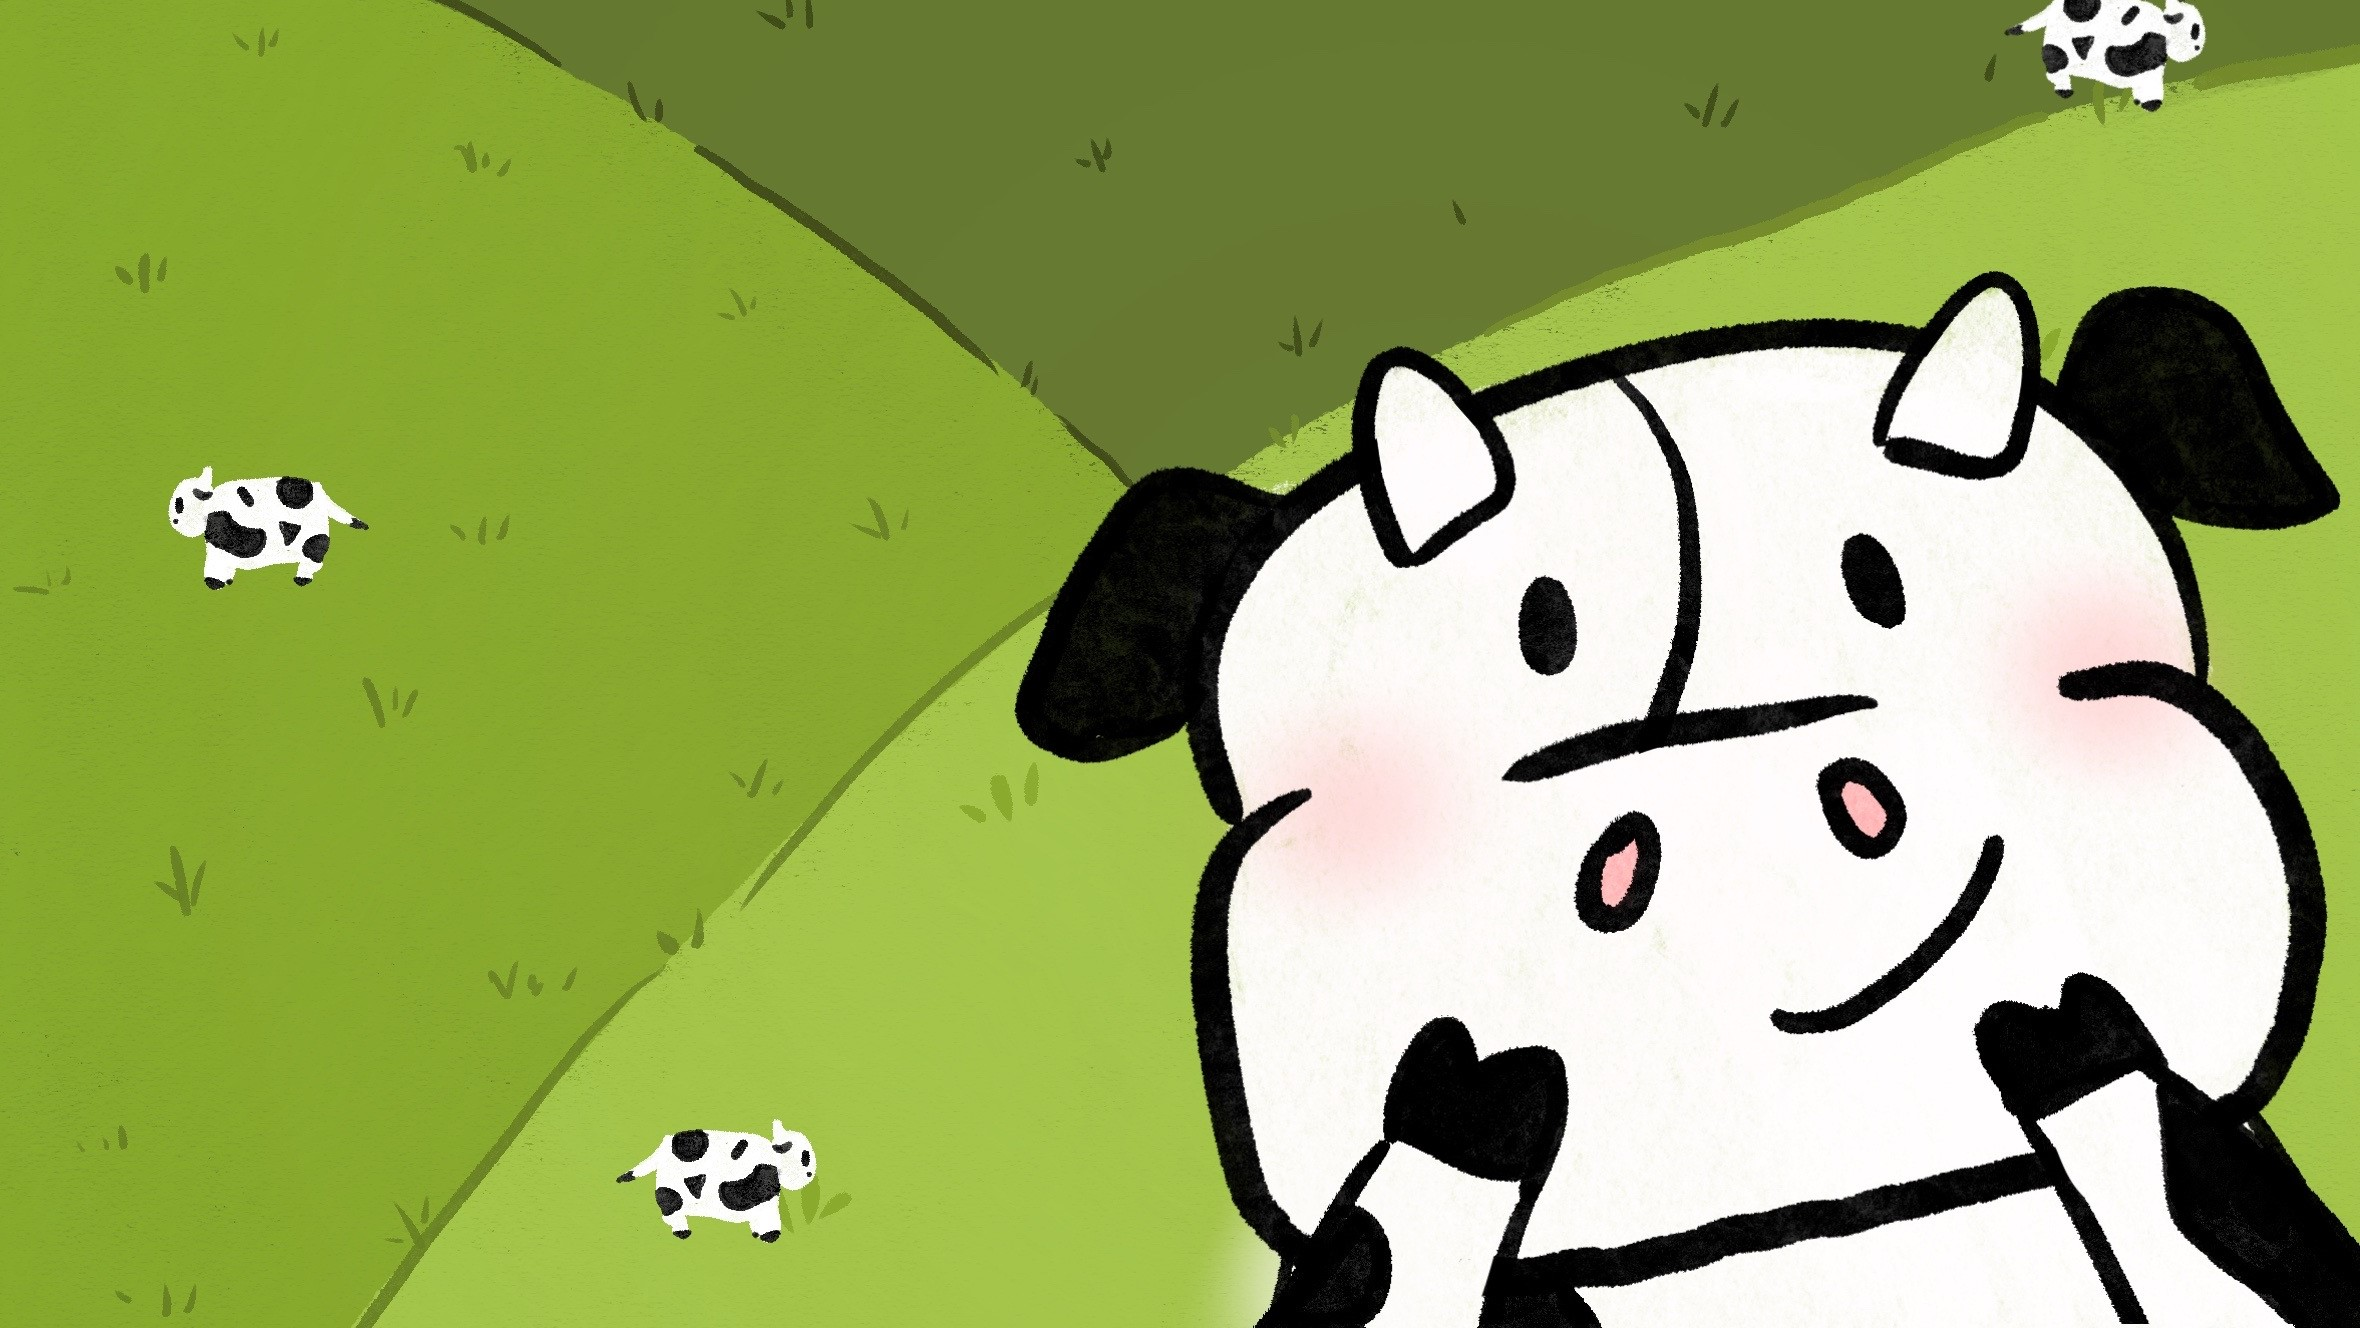
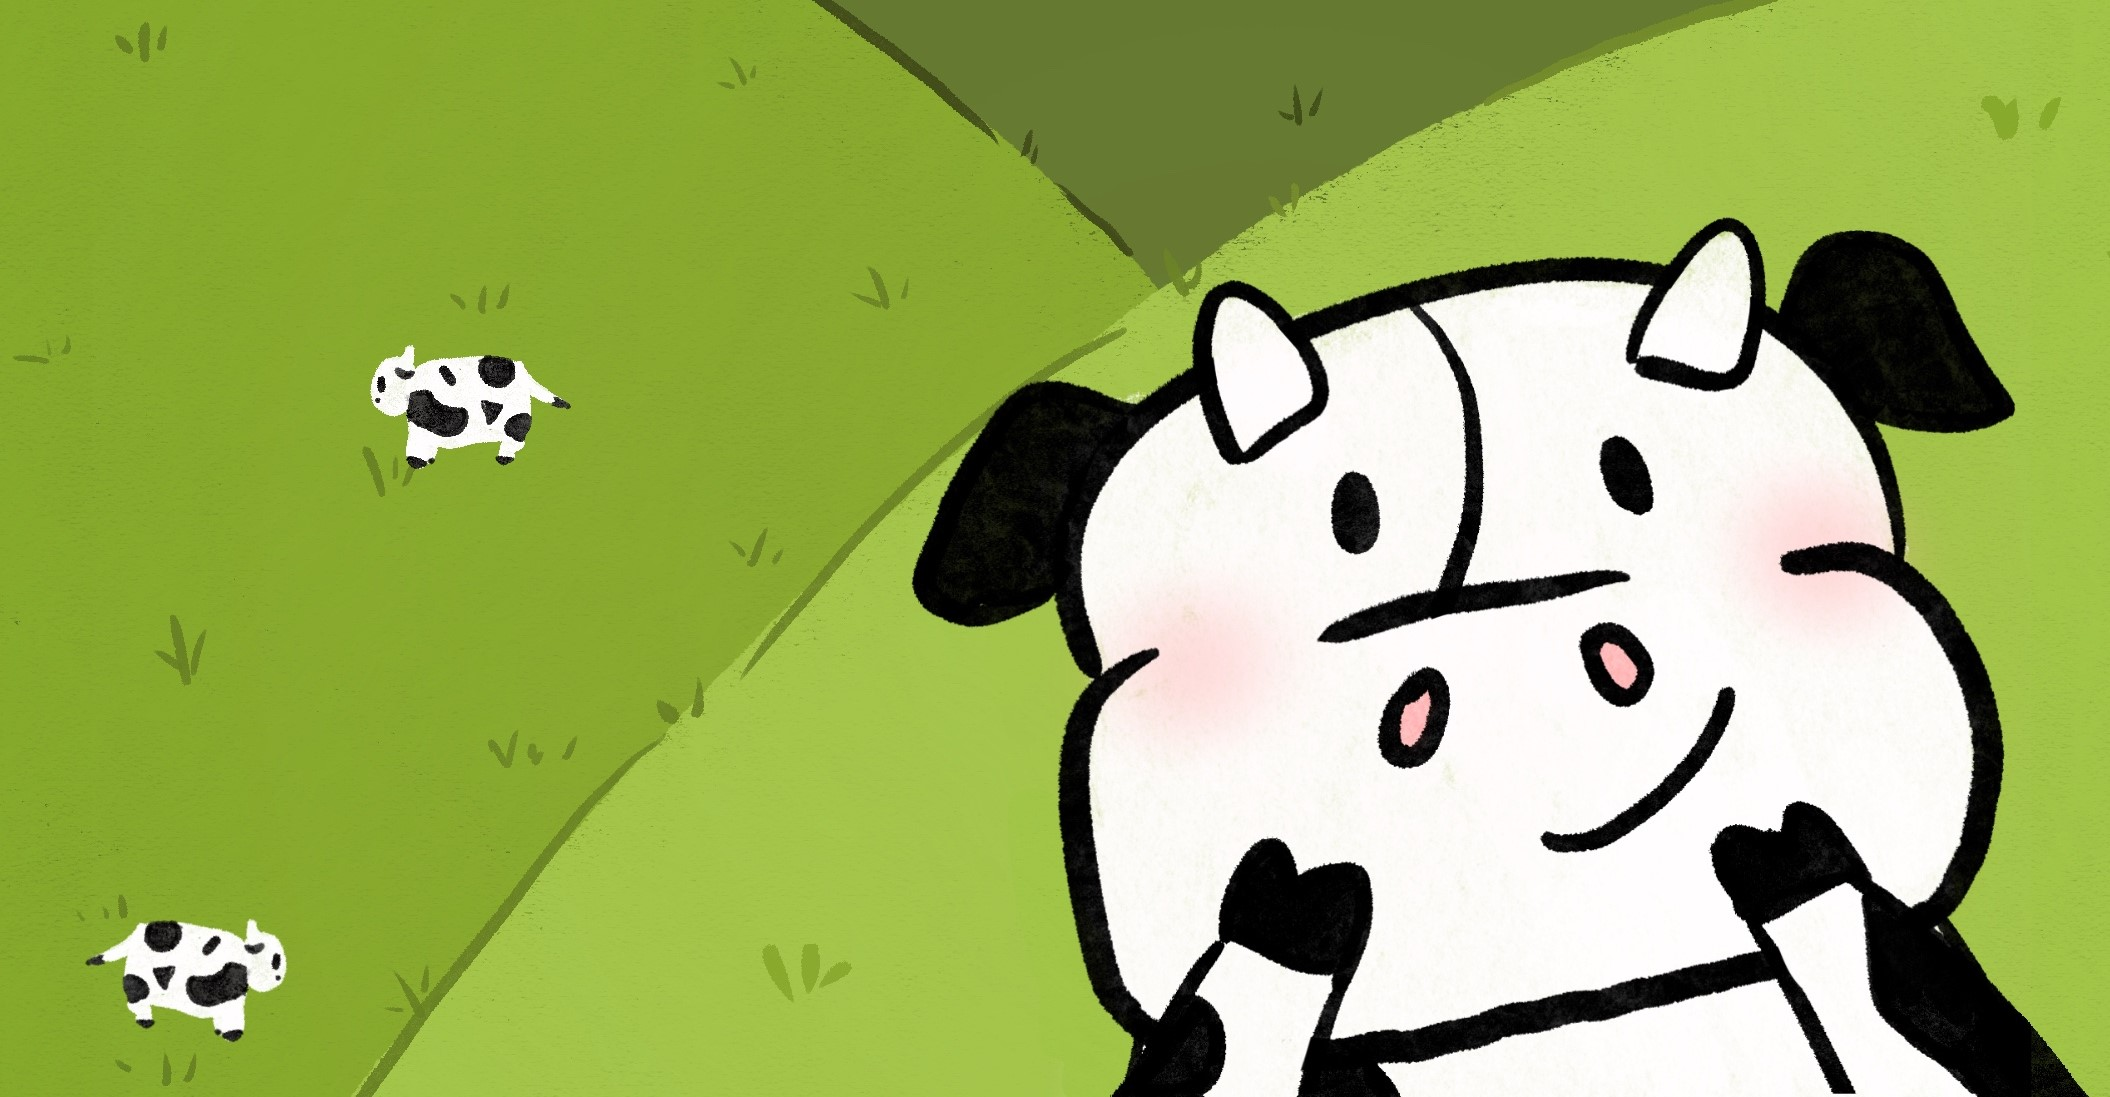
fix : login 修改響應式閉眼會跑出格子

diff --git a/frontend/src/views/Login/LoginPage.vue b/frontend/src/views/Login/LoginPage.vue
@@ -7,34 +7,42 @@
 
     <!-- Flexbox 居中表單 -->
     <div class="flex-grow">
-      <form class="flex flex-col gap-5 px-10 mt-5">
+      <form class="flex flex-col px-10 mt-5 space-y-3">
         <!-- 標題 -->
         <label class="flex text-4xl font-bold justify-center">Login</label>
 
         <!-- 帳號輸入框 -->
-        <div class="flex w-full border-2 rounded-md shadow-md p-3 items-center">
+        <div class="flex border-2 rounded-md shadow-md y-2 p-2 items-center">
           <PhUser :size="32" color="#4d4d4d" class="flex-shrink-0" />
-          <input v-model="user.account" class="mx-2 min-w-0 text-base" type="text" placeholder="帳號" />
+          <input v-model="user.account" class="border-none resize outline-none p-2 w-full" type="text" placeholder="帳號" />
         </div>
 
-        <!-- 密碼輸入框 -->
-        <div class="flex w-full border-2 rounded-md shadow-md p-3 items-center">
-          <PhLockKey :size="32" color="#4d4d4d" class="flex-shrink-0" />
-          <input v-model="user.password" @focus="doingPw = true" @blur="doingPw = false" class="mx-2 min-w-0 text-base"
-            :type="showPassword ? 'text' : 'password'" placeholder="密碼" />
-          <PhEyeClosed v-if="!showPassword" @click="togglePassword" :size="32" color="#4d4d4d" class="flex-shrink-0" />
-          <PhEye v-else @click="togglePassword" :size="32" class="flex-shrink-0" />
+        <div>
+          <router-link to="/account/forgot-password" class="flex text-H3 text-[#92c700] justify-end">忘記密碼？</router-link>
+          <!-- 密碼輸入框 -->
+          <div class="flex border-2 rounded-md shadow-md p-2 justify-between">
+            <div class="flex">
+              <PhLockKey :size="32" color="#4d4d4d" class="flex-shrink-0" />
+              <input
+                v-model="user.password"
+                @focus="doingPw = true"
+                @blur="doingPw = false"
+                :type="showPassword ? 'text' : 'password'"
+                placeholder="密碼"
+                class="border-none resize outline-none p-2 w-full"
+              >
+            </div>
+            <PhEyeClosed v-if="!showPassword" @click="togglePassword" :size="32" color="#4d4d4d" class="flex-shrink-0" />
+            <PhEye v-else @click="togglePassword" :size="32" class="flex-shrink-0" />
+          </div>          
         </div>
 
+        
+          <button @click="loginHandler(user)" class=" bg-[#90c700] text-white text-H3 py-2 rounded shadow-md">登入</button>
+       
         <!-- 按鈕 -->
-        <button @click="loginHandler(user)"
-          class="w-full bg-[#90c700] text-white font-bold text-2xl py-3 sm:py-2 rounded shadow-md" type="button">
-          登入
-        </button>
       </form>
-      <router-link to="/account/forgot-password" class="flex text-lg text-[#92c700] justify-center">
-        忘記密碼？
-      </router-link>
+      
     </div>
 
     <!-- 底部連結區域 -->
@@ -59,7 +67,7 @@
         <router-link to="/account/register" class="flex text-lg text-[#92c700] justify-center">
           創建帳號
         </router-link>
-        <router-link to="/home" class="flex text-lg text-[#92c700] justify-center">回首頁</router-link>
+        <router-link to="/home" class="flex text-lg text-[#92c700] justify-center">訪客登入</router-link>
       </div>
     </div>
   </div>

diff --git a/frontend/src/App.vue b/frontend/src/App.vue
@@ -25,13 +25,13 @@ onMounted(() => {
 <template>
   <!-- 渲染當前頁面 -->
   <div class="overflow-y-auto h-full flex flex-col justify-between">
-    <div v-if="['AiPage',].includes(route.name)" class="overflow-auto pb-10">
+    <div v-if="['AiPage'].includes(route.name)" class="overflow-auto pb-10">
       <RouterView />
     </div>
     <div v-else class="overflow-auto">
       <RouterView />
     </div>
-    <div class="flex flex-col-reverse h-20">
+    <div class="flex flex-col-reverse">
       <div      
         v-if="
           ![
